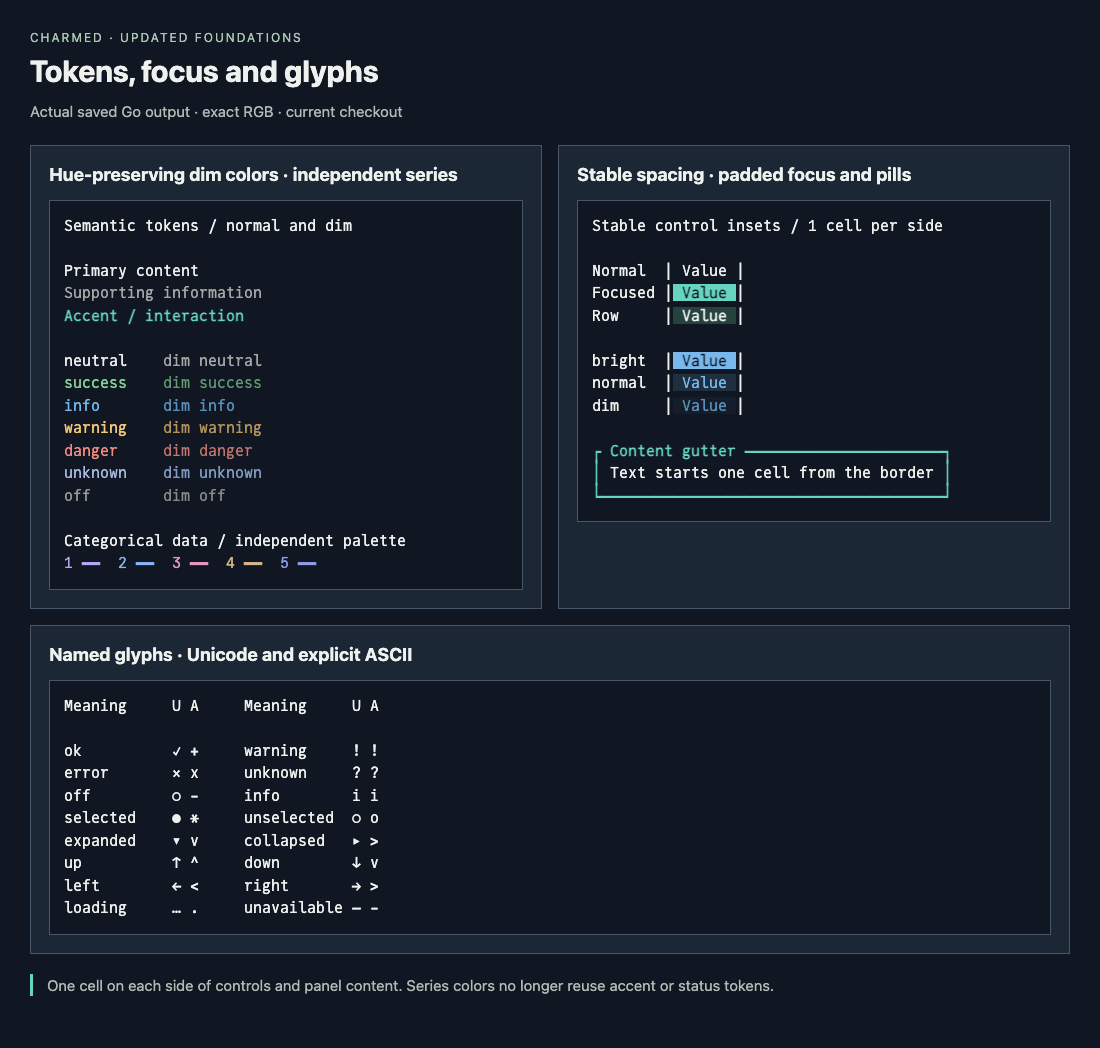
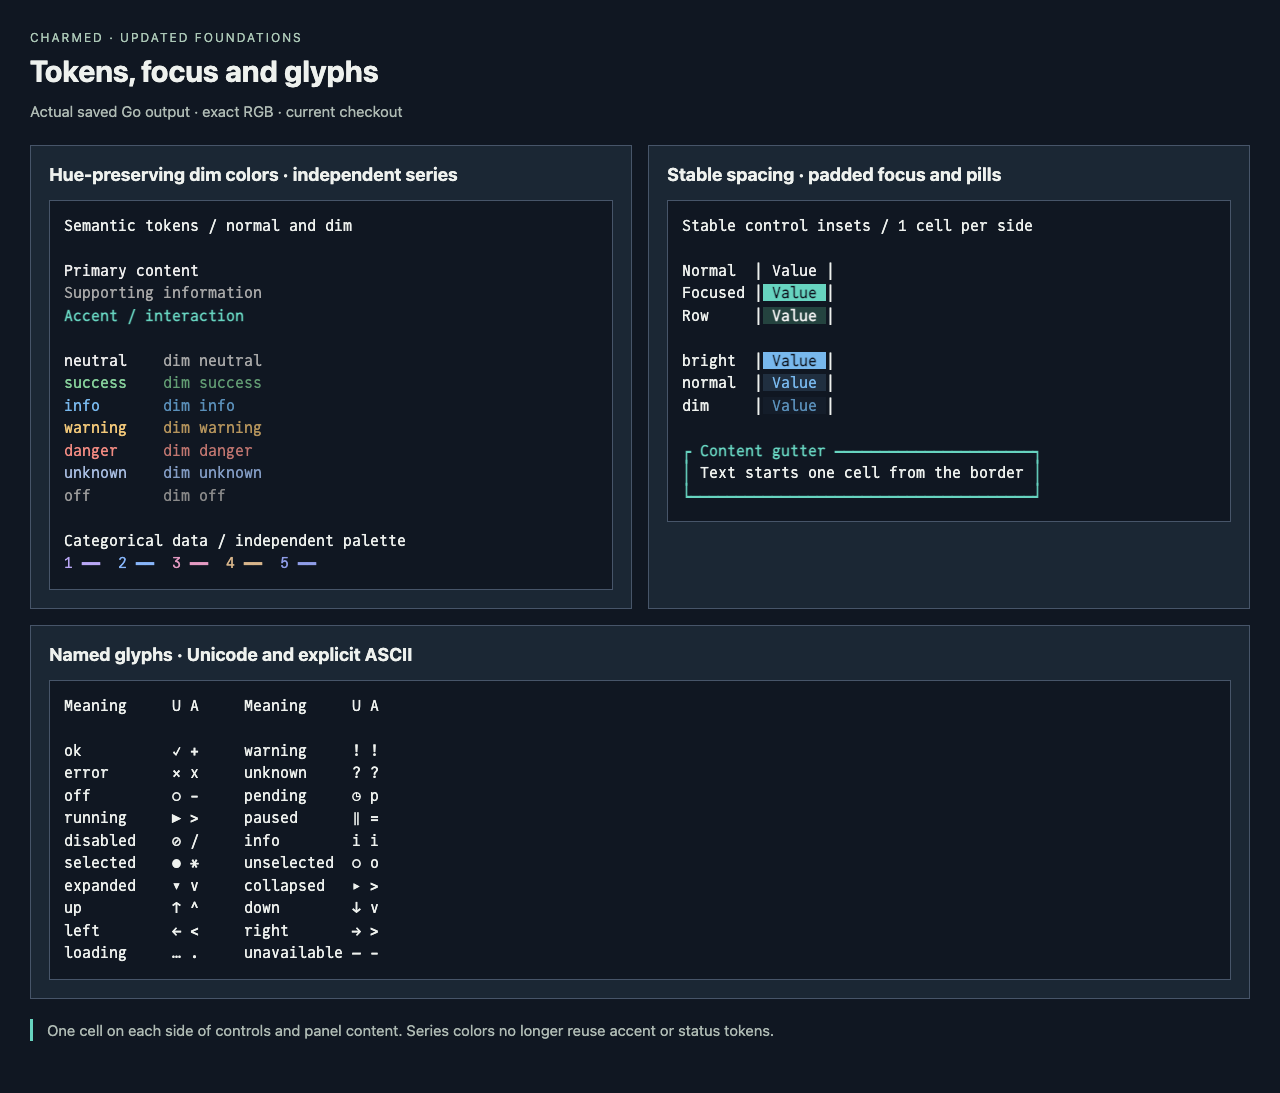
feat(feedback): add lifecycle status states

diff --git a/theme/theme.go b/theme/theme.go
@@ -18,15 +18,16 @@ const (
 
 // Theme is a value: a preview can change its theme without mutating other sessions.
 type Theme struct {
-	Mode                                                      Mode
-	ASCII                                                     bool
-	ReducedMotion                                             bool
-	Background, Surface, Foreground, Muted, Border, Accent    color.Color
-	SelectionBackground                                       color.Color
-	Success, Info, Warning, Danger                            color.Color
-	Unknown, Inactive, DimUnknown, DimInactive                color.Color
-	DimForeground, DimSuccess, DimInfo, DimWarning, DimDanger color.Color
-	Series                                                    []color.Color
+	Mode                                                        Mode
+	ASCII                                                       bool
+	ReducedMotion                                               bool
+	Background, Surface, Foreground, Muted, Border, Accent      color.Color
+	SelectionBackground                                         color.Color
+	Success, Info, Warning, Danger                              color.Color
+	Unknown, Inactive, DimUnknown, DimInactive                  color.Color
+	Pending, Running, Paused, DimPending, DimRunning, DimPaused color.Color
+	DimForeground, DimSuccess, DimInfo, DimWarning, DimDanger   color.Color
+	Series                                                      []color.Color
 }
 
 func New(mode Mode) Theme {
@@ -41,6 +42,8 @@ func New(mode Mode) Theme {
 		t.SelectionBackground = hex("#d1e8e3")
 		t.Unknown, t.Inactive = hex("#475e86"), hex("#626262")
 		t.DimUnknown, t.DimInactive = hex("#5c6e8a"), hex("#666666")
+		t.Pending, t.Running, t.Paused = hex("#345a9c"), hex("#146375"), hex("#756044")
+		t.DimPending, t.DimRunning, t.DimPaused = hex("#526fa0"), hex("#426f7c"), hex("#7f6b51")
 		t.DimForeground, t.DimSuccess, t.DimInfo, t.DimWarning, t.DimDanger = hex("#526176"), hex("#477451"), hex("#526fa8"), hex("#8a6841"), hex("#a05b5b")
 		t.Series = colors("#6654ad", "#3568b0", "#a3497f", "#8c663d", "#575ba6")
 	case Contrast:
@@ -52,6 +55,8 @@ func New(mode Mode) Theme {
 		t.SelectionBackground = hex("#1c4245")
 		t.Unknown, t.Inactive = hex("#b7c9ed"), hex("#b0b0b0")
 		t.DimUnknown, t.DimInactive = hex("#8da4cb"), hex("#929292")
+		t.Pending, t.Running, t.Paused = hex("#abc1ff"), hex("#88ddeb"), hex("#e1ccb1")
+		t.DimPending, t.DimRunning, t.DimPaused = hex("#8ba2da"), hex("#65aab7"), hex("#b5a28a")
 		t.DimForeground, t.DimSuccess, t.DimInfo, t.DimWarning, t.DimDanger = hex("#c0c0c0"), hex("#6cbe80"), hex("#739ac7"), hex("#c5b75a"), hex("#d48282")
 		t.Series = colors("#c8b4ff", "#9ac2ff", "#f4b0d8", "#e8c49a", "#abb6ff")
 	case Mono:
@@ -68,6 +73,8 @@ func New(mode Mode) Theme {
 		t.SelectionBackground = hex("#24433f")
 		t.Unknown, t.Inactive = hex("#a7bce0"), hex("#9a9a9a")
 		t.DimUnknown, t.DimInactive = hex("#829bc3"), hex("#898989")
+		t.Pending, t.Running, t.Paused = hex("#8ca8e8"), hex("#70c6d8"), hex("#c5b49b")
+		t.DimPending, t.DimRunning, t.DimPaused = hex("#758fc4"), hex("#519bab"), hex("#a59682")
 		t.DimForeground, t.DimSuccess, t.DimInfo, t.DimWarning, t.DimDanger = hex("#a8a8a8"), hex("#629c73"), hex("#5a8fb9"), hex("#b5945c"), hex("#c17670")
 		t.Series = colors("#b9a7f5", "#87b5f9", "#e49ac2", "#d7b58b", "#8f9de8")
 	}

diff --git a/story/atoms.go b/story/atoms.go
@@ -50,7 +50,7 @@ func atomsDefinitions() []Definition {
 	d = append(d,
 		Definition{ID: "text/signed-number", Title: "Atoms/Text/Signed number", Level: "Atoms", Family: "text", Description: "Exact signed values, configurable positive/negative tones, neutral zero, tiny-value preservation and explicit unavailable state.", Source: "text/signed.go", Controls: []string{"amount", "state", "emphasis"}, States: []string{"ready", "empty"}, Defaults: atomConfig(), Factory: signedNumberStory},
 		Definition{ID: "text/pill", Title: "Atoms/Text/Color pill", Level: "Atoms", Family: "text", Description: "Semantic tone and bright, normal or dim emphasis are independent. ASCII output retains the label.", Source: "text/text.go", Symbol: "Pill", Controls: []string{"value", "emphasis"}, Defaults: atomConfig(), Factory: pillsStory},
-		Definition{ID: "feedback/status", Title: "Atoms/Feedback/Status", Level: "Atoms", Family: "feedback", Description: "Reusable OK, WARN, ERROR, UNKNOWN and OFF states compose shared tone and emphasis atoms.", Source: "feedback/status.go", Controls: []string{"emphasis"}, Composes: []string{"text/pill"}, Defaults: atomConfig(), Factory: statusStory},
+		Definition{ID: "feedback/status", Title: "Atoms/Feedback/Status", Level: "Atoms", Family: "feedback", Description: "Health and lifecycle states share semantic colors, named glyphs and emphasis-independent spacing.", Source: "feedback/status.go", Controls: []string{"emphasis"}, Composes: []string{"text/pill"}, Defaults: atomConfig(), Factory: statusStory},
 		Definition{ID: "chart/picture", Title: "Atoms/Graphics/Picture", Level: "Atoms", Family: "graphics", Description: "Portable glyph rendering of an embedded image; no external image service.", Source: "story/atoms.go", Symbol: "pictureStory", Upstream: "https://github.com/NimbleMarkets/ntcharts", Defaults: DefaultConfig(), Factory: pictureStory},
 		Definition{ID: "chart/interval-band", Title: "Atoms/Charts/Interval band", Level: "Atoms", Family: "chart", Description: "Nested caller-supplied intervals, a mean and selected observation rendered on an ntcharts canvas.", Source: "chart/band.go", Symbol: "IntervalBand", Upstream: "https://github.com/NimbleMarkets/ntcharts", Controls: []string{"state", "sigma", "legend"}, States: []string{"ready", "empty"}, Defaults: DefaultConfig(), Factory: bandStory},
 	)
@@ -260,7 +260,7 @@ func statusStory(e Environment) (runtime.Scene, error) {
 	return static(func(layout.Size) string {
 		t := e.Config.Palette()
 		rows := []string{"Status atoms / " + e.Config.Emphasis, ""}
-		for _, status := range []feedback.Status{feedback.OK, feedback.Warn, feedback.Error, feedback.Unknown, feedback.Off} {
+		for _, status := range feedback.Statuses() {
 			rows = append(rows, status.View(text.Emphasis(e.Config.Emphasis), t))
 		}
 		return strings.Join(rows, "\n")

diff --git a/feedback/status_test.go b/feedback/status_test.go
@@ -14,9 +14,9 @@ import (
 )
 
 func TestStatusAtomsKeepUnavailableAndDisabledDistinct(t *testing.T) {
-	for _, mode := range []theme.Mode{theme.Dark, theme.Light, theme.Mono} {
+	for _, mode := range []theme.Mode{theme.Dark, theme.Light, theme.Contrast, theme.Mono} {
 		for _, emphasis := range []text.Emphasis{text.Bright, text.Normal, text.Dim} {
-			for _, status := range []feedback.Status{feedback.OK, feedback.Warn, feedback.Error, feedback.Unknown, feedback.Off} {
+			for _, status := range feedback.Statuses() {
 				label := ansi.Strip(status.View(emphasis, theme.New(mode)))
 				if !strings.Contains(label, string(status)) {
 					t.Fatalf("%s status lost its label", status)
@@ -64,6 +64,42 @@ func TestUnknownIsCoolAndOffIsAchromaticAtEveryEmphasis(t *testing.T) {
 			if r != g || g != b {
 				t.Fatalf("%s %s OFF must remain achromatic", mode, emphasis)
 			}
+		}
+	}
+}
+
+func TestLifecycleStatusesKeepLabelsGlyphsAndReservedWidth(t *testing.T) {
+	for _, mode := range []theme.Mode{theme.Dark, theme.Light, theme.Contrast, theme.Mono} {
+		palette := theme.New(mode)
+
+		for _, state := range []struct {
+			status         feedback.Status
+			unicode, ascii string
+		}{
+			{feedback.Pending, "◷", "p"},
+			{feedback.Running, "▶", ">"},
+			{feedback.Paused, "‖", "="},
+			{feedback.Disabled, "⊘", "/"},
+		} {
+			glyph := state.unicode
+			if palette.ASCII {
+				glyph = state.ascii
+			}
+
+			for _, emphasis := range []text.Emphasis{text.Bright, text.Normal, text.Dim} {
+				want := " " + glyph + " " + string(state.status) + " "
+				if palette.ASCII {
+					want = "[" + glyph + " " + string(state.status) + "]"
+				}
+
+				if got := ansi.Strip(state.status.View(emphasis, palette)); got != want {
+					t.Fatalf("%s %s lifecycle status: got %q want %q", mode, emphasis, got, want)
+				}
+			}
+		}
+
+		if feedback.MaxStatusWidth(palette) != 12 {
+			t.Fatal("status allocation must fit the twelve-cell DISABLED pill")
 		}
 	}
 }

diff --git a/feedback/status.go b/feedback/status.go
@@ -3,6 +3,7 @@ package feedback
 import (
 	"image/color"
 
+	"github.com/charmbracelet/x/ansi"
 	"github.com/lanej/charmed/text"
 	"github.com/lanej/charmed/theme"
 )
@@ -11,12 +12,32 @@ import (
 type Status string
 
 const (
-	OK      Status = "OK"
-	Warn    Status = "WARN"
-	Error   Status = "ERROR"
-	Unknown Status = "UNKNOWN"
-	Off     Status = "OFF"
+	OK       Status = "OK"
+	Warn     Status = "WARN"
+	Error    Status = "ERROR"
+	Unknown  Status = "UNKNOWN"
+	Off      Status = "OFF"
+	Pending  Status = "PENDING"
+	Running  Status = "RUNNING"
+	Paused   Status = "PAUSED"
+	Disabled Status = "DISABLED"
 )
+
+// Statuses returns the display catalog in its learning order.
+func Statuses() []Status {
+	return []Status{OK, Warn, Error, Unknown, Off, Pending, Running, Paused, Disabled}
+}
+
+// MaxStatusWidth includes the glyph, separating space and horizontal insets.
+// All emphasis levels retain this geometry.
+func MaxStatusWidth(t theme.Theme) int {
+	width := 0
+	for _, status := range Statuses() {
+		width = max(width, ansi.StringWidth(status.View(text.Normal, t)))
+	}
+
+	return width
+}
 
 func (s Status) View(emphasis text.Emphasis, t theme.Theme) string {
 	tone := text.Neutral
@@ -36,6 +57,18 @@ func (s Status) View(emphasis text.Emphasis, t theme.Theme) string {
 		t = statusTheme(t, t.Unknown, t.DimUnknown)
 	case Off:
 		glyph = theme.GlyphOff
+		t = statusTheme(t, t.Inactive, t.DimInactive)
+	case Pending:
+		glyph = theme.GlyphPending
+		t = statusTheme(t, t.Pending, t.DimPending)
+	case Running:
+		glyph = theme.GlyphRunning
+		t = statusTheme(t, t.Running, t.DimRunning)
+	case Paused:
+		glyph = theme.GlyphPaused
+		t = statusTheme(t, t.Paused, t.DimPaused)
+	case Disabled:
+		glyph = theme.GlyphDisabled
 		t = statusTheme(t, t.Inactive, t.DimInactive)
 	default:
 		s = Unknown

diff --git a/theme/foundations_test.go b/theme/foundations_test.go
@@ -35,7 +35,7 @@ func TestDimTokensRemainReadableAndSeriesDoNotAliasSemanticRoles(t *testing.T) {
 			t.Fatalf("%s selection surface makes nested plain text unreadable", mode)
 		}
 
-		for _, dim := range []color.Color{palette.DimForeground, palette.DimSuccess, palette.DimInfo, palette.DimWarning, palette.DimDanger, palette.DimUnknown, palette.DimInactive} {
+		for _, dim := range []color.Color{palette.DimForeground, palette.DimSuccess, palette.DimInfo, palette.DimWarning, palette.DimDanger, palette.DimUnknown, palette.DimInactive, palette.DimPending, palette.DimRunning, palette.DimPaused} {
 			value := luminance(dim)
 
 			ratio := (max(value, background) + .05) / (min(value, background) + .05)
@@ -45,7 +45,7 @@ func TestDimTokensRemainReadableAndSeriesDoNotAliasSemanticRoles(t *testing.T) {
 		}
 
 		for i, series := range palette.Series {
-			for _, semantic := range []color.Color{palette.Accent, palette.Success, palette.Info, palette.Warning, palette.Danger, palette.Unknown, palette.Inactive} {
+			for _, semantic := range []color.Color{palette.Accent, palette.Success, palette.Info, palette.Warning, palette.Danger, palette.Unknown, palette.Inactive, palette.Pending, palette.Running, palette.Paused} {
 				if color.NRGBAModel.Convert(series) == color.NRGBAModel.Convert(semantic) {
 					t.Fatalf("%s series %d aliases a semantic token", mode, i)
 				}

diff --git a/story/foundations.go b/story/foundations.go
@@ -64,7 +64,7 @@ func glyphStory(e Environment) (runtime.Scene, error) {
 		rows := []string{"Meaning     U A     Meaning     U A", ""}
 
 		var cells []string
-		for _, glyph := range []theme.Glyph{theme.GlyphOK, theme.GlyphWarning, theme.GlyphError, theme.GlyphUnknown, theme.GlyphOff, theme.GlyphInfo, theme.GlyphSelected, theme.GlyphUnselected, theme.GlyphExpanded, theme.GlyphCollapsed, theme.GlyphUp, theme.GlyphDown, theme.GlyphLeft, theme.GlyphRight, theme.GlyphLoading, theme.GlyphUnavailable} {
+		for _, glyph := range []theme.Glyph{theme.GlyphOK, theme.GlyphWarning, theme.GlyphError, theme.GlyphUnknown, theme.GlyphOff, theme.GlyphPending, theme.GlyphRunning, theme.GlyphPaused, theme.GlyphDisabled, theme.GlyphInfo, theme.GlyphSelected, theme.GlyphUnselected, theme.GlyphExpanded, theme.GlyphCollapsed, theme.GlyphUp, theme.GlyphDown, theme.GlyphLeft, theme.GlyphRight, theme.GlyphLoading, theme.GlyphUnavailable} {
 			cells = append(cells, layout.Fit(fmt.Sprintf("%-11s %s %s", glyph, t.Glyph(glyph), fallback.Glyph(glyph)), layout.Size{Width: 18, Height: 1}))
 		}
 

diff --git a/pattern/dashboard.go b/pattern/dashboard.go
@@ -111,7 +111,8 @@ func (m *Dashboard) Resize(size layout.Size) {
 	m.focus = interaction.NewFocus(ids...)
 	m.focus.Set(current)
 	w := max(4, layout.PanelContentSize(layout.Size{Width: m.leftWidth}).Width)
-	m.Table.SetColumns([]table.Column{{Title: "SERVICE", Width: max(1, w-15)}, {Title: "STATE", Width: 11}})
+	statusWidth := feedback.MaxStatusWidth(m.theme)
+	m.Table.SetColumns([]table.Column{{Title: "SERVICE", Width: max(1, w-statusWidth-4)}, {Title: "STATE", Width: statusWidth}})
 	m.Table.SetWidth(w)
 	m.Table.SetHeight(max(1, m.tableHeight-1))
 	m.Details.SetWidth(w)
@@ -292,8 +293,16 @@ func serviceStatus(value string) feedback.Status {
 		return feedback.Warn
 	case "failed", "error":
 		return feedback.Error
-	case "off", "disabled":
+	case "off":
 		return feedback.Off
+	case "disabled":
+		return feedback.Disabled
+	case "pending":
+		return feedback.Pending
+	case "running":
+		return feedback.Running
+	case "paused":
+		return feedback.Paused
 	default:
 		return feedback.Unknown
 	}

diff --git a/pattern/dashboard_test.go b/pattern/dashboard_test.go
@@ -87,3 +87,18 @@ func TestDashboardUsesStatusAtomsWithoutRedundantHeadings(t *testing.T) {
 		t.Error("unrecognized health must use the explicit unknown status atom")
 	}
 }
+
+func TestDashboardKeepsLifecycleStatesDistinctAndUnclipped(t *testing.T) {
+	for _, status := range []string{"pending", "running", "paused", "disabled", "off"} {
+		for _, mode := range []theme.Mode{theme.Dark, theme.Mono} {
+			m := pattern.NewDashboard(pattern.DashboardOptions{Theme: theme.New(mode), Services: []pattern.Service{{ID: "one", Name: "Service", Status: status}}})
+			for _, width := range []int{40, 120} {
+				m.Resize(layout.Size{Width: width, Height: 34})
+
+				if !strings.Contains(ansi.Strip(m.Table.View()), strings.ToUpper(status)) {
+					t.Fatalf("%s at %d cells lost its lifecycle label", status, width)
+				}
+			}
+		}
+	}
+}

diff --git a/theme/glyph.go b/theme/glyph.go
@@ -9,6 +9,10 @@ const (
 	GlyphError       Glyph = "error"
 	GlyphUnknown     Glyph = "unknown"
 	GlyphOff         Glyph = "off"
+	GlyphPending     Glyph = "pending"
+	GlyphRunning     Glyph = "running"
+	GlyphPaused      Glyph = "paused"
+	GlyphDisabled    Glyph = "disabled"
 	GlyphInfo        Glyph = "info"
 	GlyphSelected    Glyph = "selected"
 	GlyphUnselected  Glyph = "unselected"
@@ -37,6 +41,14 @@ func (t Theme) Glyph(glyph Glyph) string {
 		unicode, ascii = "?", "?"
 	case GlyphOff:
 		unicode, ascii = "○", "-"
+	case GlyphPending:
+		unicode, ascii = "◷", "p"
+	case GlyphRunning:
+		unicode, ascii = "▶", ">"
+	case GlyphPaused:
+		unicode, ascii = "‖", "="
+	case GlyphDisabled:
+		unicode, ascii = "⊘", "/"
 	case GlyphInfo:
 		unicode, ascii = "i", "i"
 	case GlyphSelected:

diff --git a/workbench/site.go b/workbench/site.go
@@ -90,7 +90,7 @@ func writeSite(out, root string, entries []ManifestEntry) error {
 			t := theme.New(theme.Dark)
 
 			var states []string
-			for _, state := range []feedback.Status{feedback.OK, feedback.Warn, feedback.Error, feedback.Unknown, feedback.Off} {
+			for _, state := range feedback.Statuses() {
 				states = append(states, story.FormatFrame(state.View(text.Bright, t), story.Config{Theme: theme.Dark, Profile: "truecolor"}))
 			}
 

diff --git a/docs/deployment.md b/docs/deployment.md
@@ -93,14 +93,14 @@ References: [NIST proportion control charts](https://www.itl.nist.gov/div898/han
 
 Signed values use `text.SignedNumber`. Its `SignTones` configure positive, negative and zero independently of warning/error boundaries. In this example, rising 2xx is green and falling 2xx is red; 5xx reverses those colors. Redirect and client-error changes use a direction-only tone because their benefit requires application context. Missing and non-finite observations render `n/a`; tiny nonzero values retain their sign rather than rounding to zero. Numeric color describes direction policy, while attention labels and the delta bar describe configured severity.
 
-`text.Pill` separates semantic tone from `text.Bright`, `text.Normal` and `text.Dim` emphasis. `feedback.Status` supplies reusable `OK`, `WARN`, `ERROR`, `UNKNOWN` and `OFF` states. `feedback.Attention` composes these display atoms after rule evaluation; it keeps unconfigured attention absent rather than implying an OK state. The component reference groups signed numbers, pills and statuses under their capabilities, with saved emphasis variants.
+`text.Pill` separates semantic tone from `text.Bright`, `text.Normal` and `text.Dim` emphasis. `feedback.Status` supplies reusable `OK`, `WARN`, `ERROR`, `UNKNOWN`, `OFF`, `PENDING`, `RUNNING`, `PAUSED` and `DISABLED` states. `feedback.Attention` composes these display atoms after rule evaluation; it keeps unconfigured attention absent rather than implying an OK state. The component reference groups signed numbers, pills and statuses under their capabilities, with saved emphasis variants.
 
 | Layer | Component | Responsibility |
 | --- | --- | --- |
 | Atom | `chart.IntervalBand` | Draw caller-supplied nested intervals and observation markers with ntcharts canvas |
 | Atom | `text.Pill` | Render a labeled semantic tone, with theme-aware contrast and a text fallback |
 | Atom | `text.SignedNumber` | Preserve exact sign and units with configurable sign tones, neutral missing values and emphasis |
-| Atom | `feedback.Status` | Render OK, WARN, ERROR, UNKNOWN and OFF with shared tone and emphasis |
+| Atom | `feedback.Status` | Render labeled health and lifecycle states with shared tone and emphasis |
 | Molecule | `feedback.Attention` | Compose a labeled warning/error/unknown/normal state from the shared pill |
 | Molecule | `chart.DeltaProperty` | Compose a merged, signed title-bar comparison from the interval atom |
 | Molecule | `feedback.PercentBar` | Compose native progress and an exact percentage as a dense table cell |

diff --git a/docs/foundations.md b/docs/foundations.md
@@ -10,6 +10,24 @@ Foreground and muted text are neutral. Accent identifies interaction; success, i
 
 Bright, normal and dim emphasis preserve the label, glyph and cell allocation. Dim uses explicit shades of each semantic hue instead of blending every tone toward gray or relying on the terminal's faint attribute. The built-in dim text tokens meet a 4.5:1 contrast floor against their theme background; native fonts, color profiles and terminal settings still affect appearance. Monochrome keeps labels, glyphs and bright weight; normal and dim may coincide without color.
 
+## Display states
+
+Health and lifecycle states share one catalog through `feedback.Statuses()`. The application decides when each state applies; rendering a state never starts, pauses or disables work. Allocate fixed status columns with `feedback.MaxStatusWidth` so longer labels retain their glyphs and padding.
+
+| State | Meaning | Color family |
+| --- | --- | --- |
+| OK | Healthy or successful | Green |
+| WARN | Attention needed | Amber |
+| ERROR | Failed or unhealthy | Red |
+| UNKNOWN | State cannot be established | Slate blue |
+| OFF | Switched off or inactive | Gray |
+| PENDING | Waiting to start | Blue |
+| RUNNING | Actively executing | Cyan |
+| PAUSED | Temporarily suspended and resumable | Sand |
+| DISABLED | Unavailable to start or select | Gray, with a slashed-circle glyph |
+
+Pending, running and paused have independent normal/dim tokens. Disabled shares the inactivity palette with off; its label and slashed-circle glyph distinguish unavailability from being switched off. These states do not imply warning/error severity and are independent of attention-rule evaluation.
+
 ## Glyphs and spacing
 
 `theme.Glyph` names status, selection, expansion, navigation, loading and unavailable marks. `Theme.Glyph` selects a one-cell Unicode or ASCII representation. A glyph supplements a semantic text label; `UNKNOWN` and `OFF` remain different states. Animated spinners retain native frame sequences, with a named static loading mark for reduced motion. Application-specific chart markers remain caller-owned.
